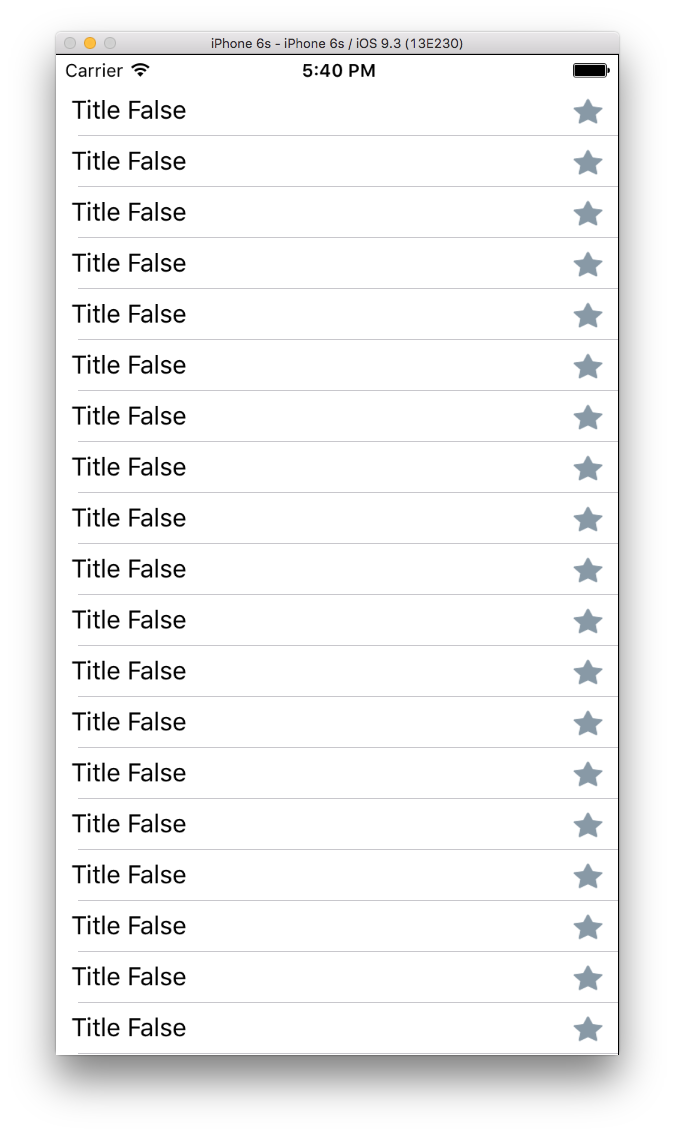
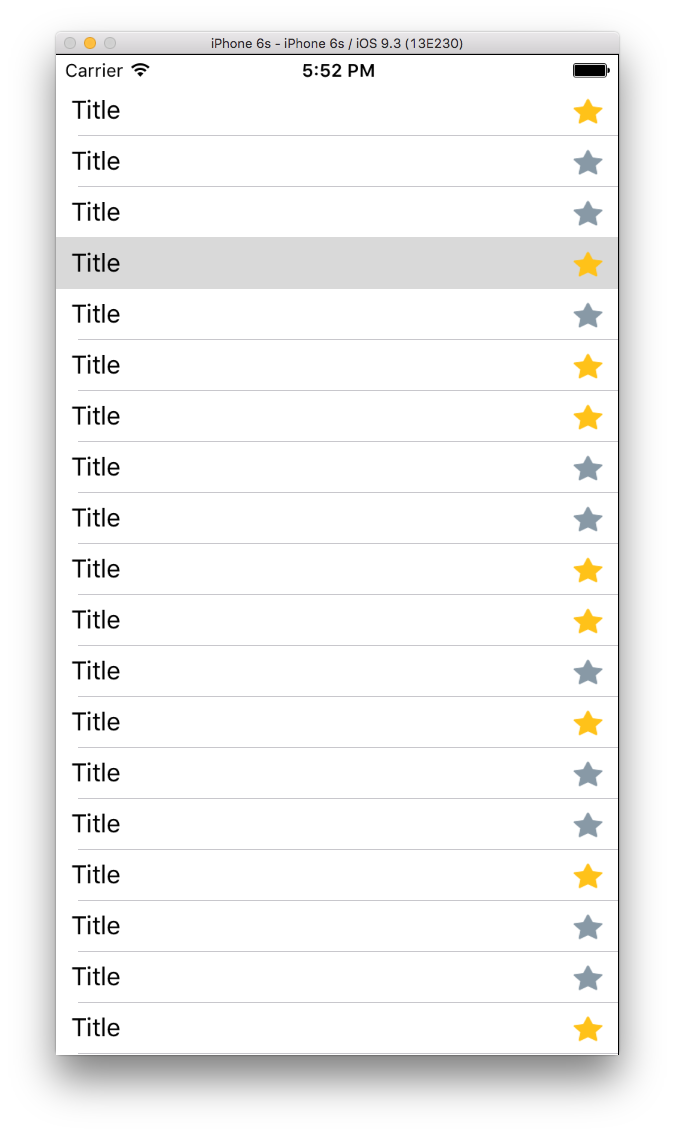
Update images and some fix

diff --git a/Dummy.swift b/Dummy.swift
@@ -26,10 +26,10 @@ struct Dummy {
                 
                 let tmpFavorite = Favorite()
                 if item%3 == 0 || item%5 == 0 {
-                    tmpFavorite.name = "Title True"
+                    tmpFavorite.name = "Title"
                     tmpFavorite.favorite = "true"
                 } else {
-                    tmpFavorite.name = "Title false"
+                    tmpFavorite.name = "Title"
                     tmpFavorite.favorite = "false"
                 }
                 self.data.append(tmpFavorite)
@@ -39,14 +39,14 @@ struct Dummy {
         case .AllTrue:
             for _ in 0..<20 {
                 let tmpFavorite = Favorite()
-                tmpFavorite.name = "Title True"
+                tmpFavorite.name = "Title"
                 tmpFavorite.favorite = "true"
                 self.data.append(tmpFavorite)
             }
         case .AllFalse:
             for _ in 0..<50 {
                 let tmpFavorite = Favorite()
-                tmpFavorite.name = "Title False"
+                tmpFavorite.name = "Title"
                 tmpFavorite.favorite = "false"
                 self.data.append(tmpFavorite)
             }

diff --git a/TableFavorite/ViewController.swift b/TableFavorite/ViewController.swift
@@ -32,7 +32,8 @@ class ViewController: UIViewController {
     
 //MARK: - Custom Functions
     func getData(complete:()->Void) {
-        self.data = Dummy(generateData: .AllFalse).data
+        let dummyGenerate = Dummy(generateData: .Random)
+        self.data = dummyGenerate.data
         complete()
     }
     
